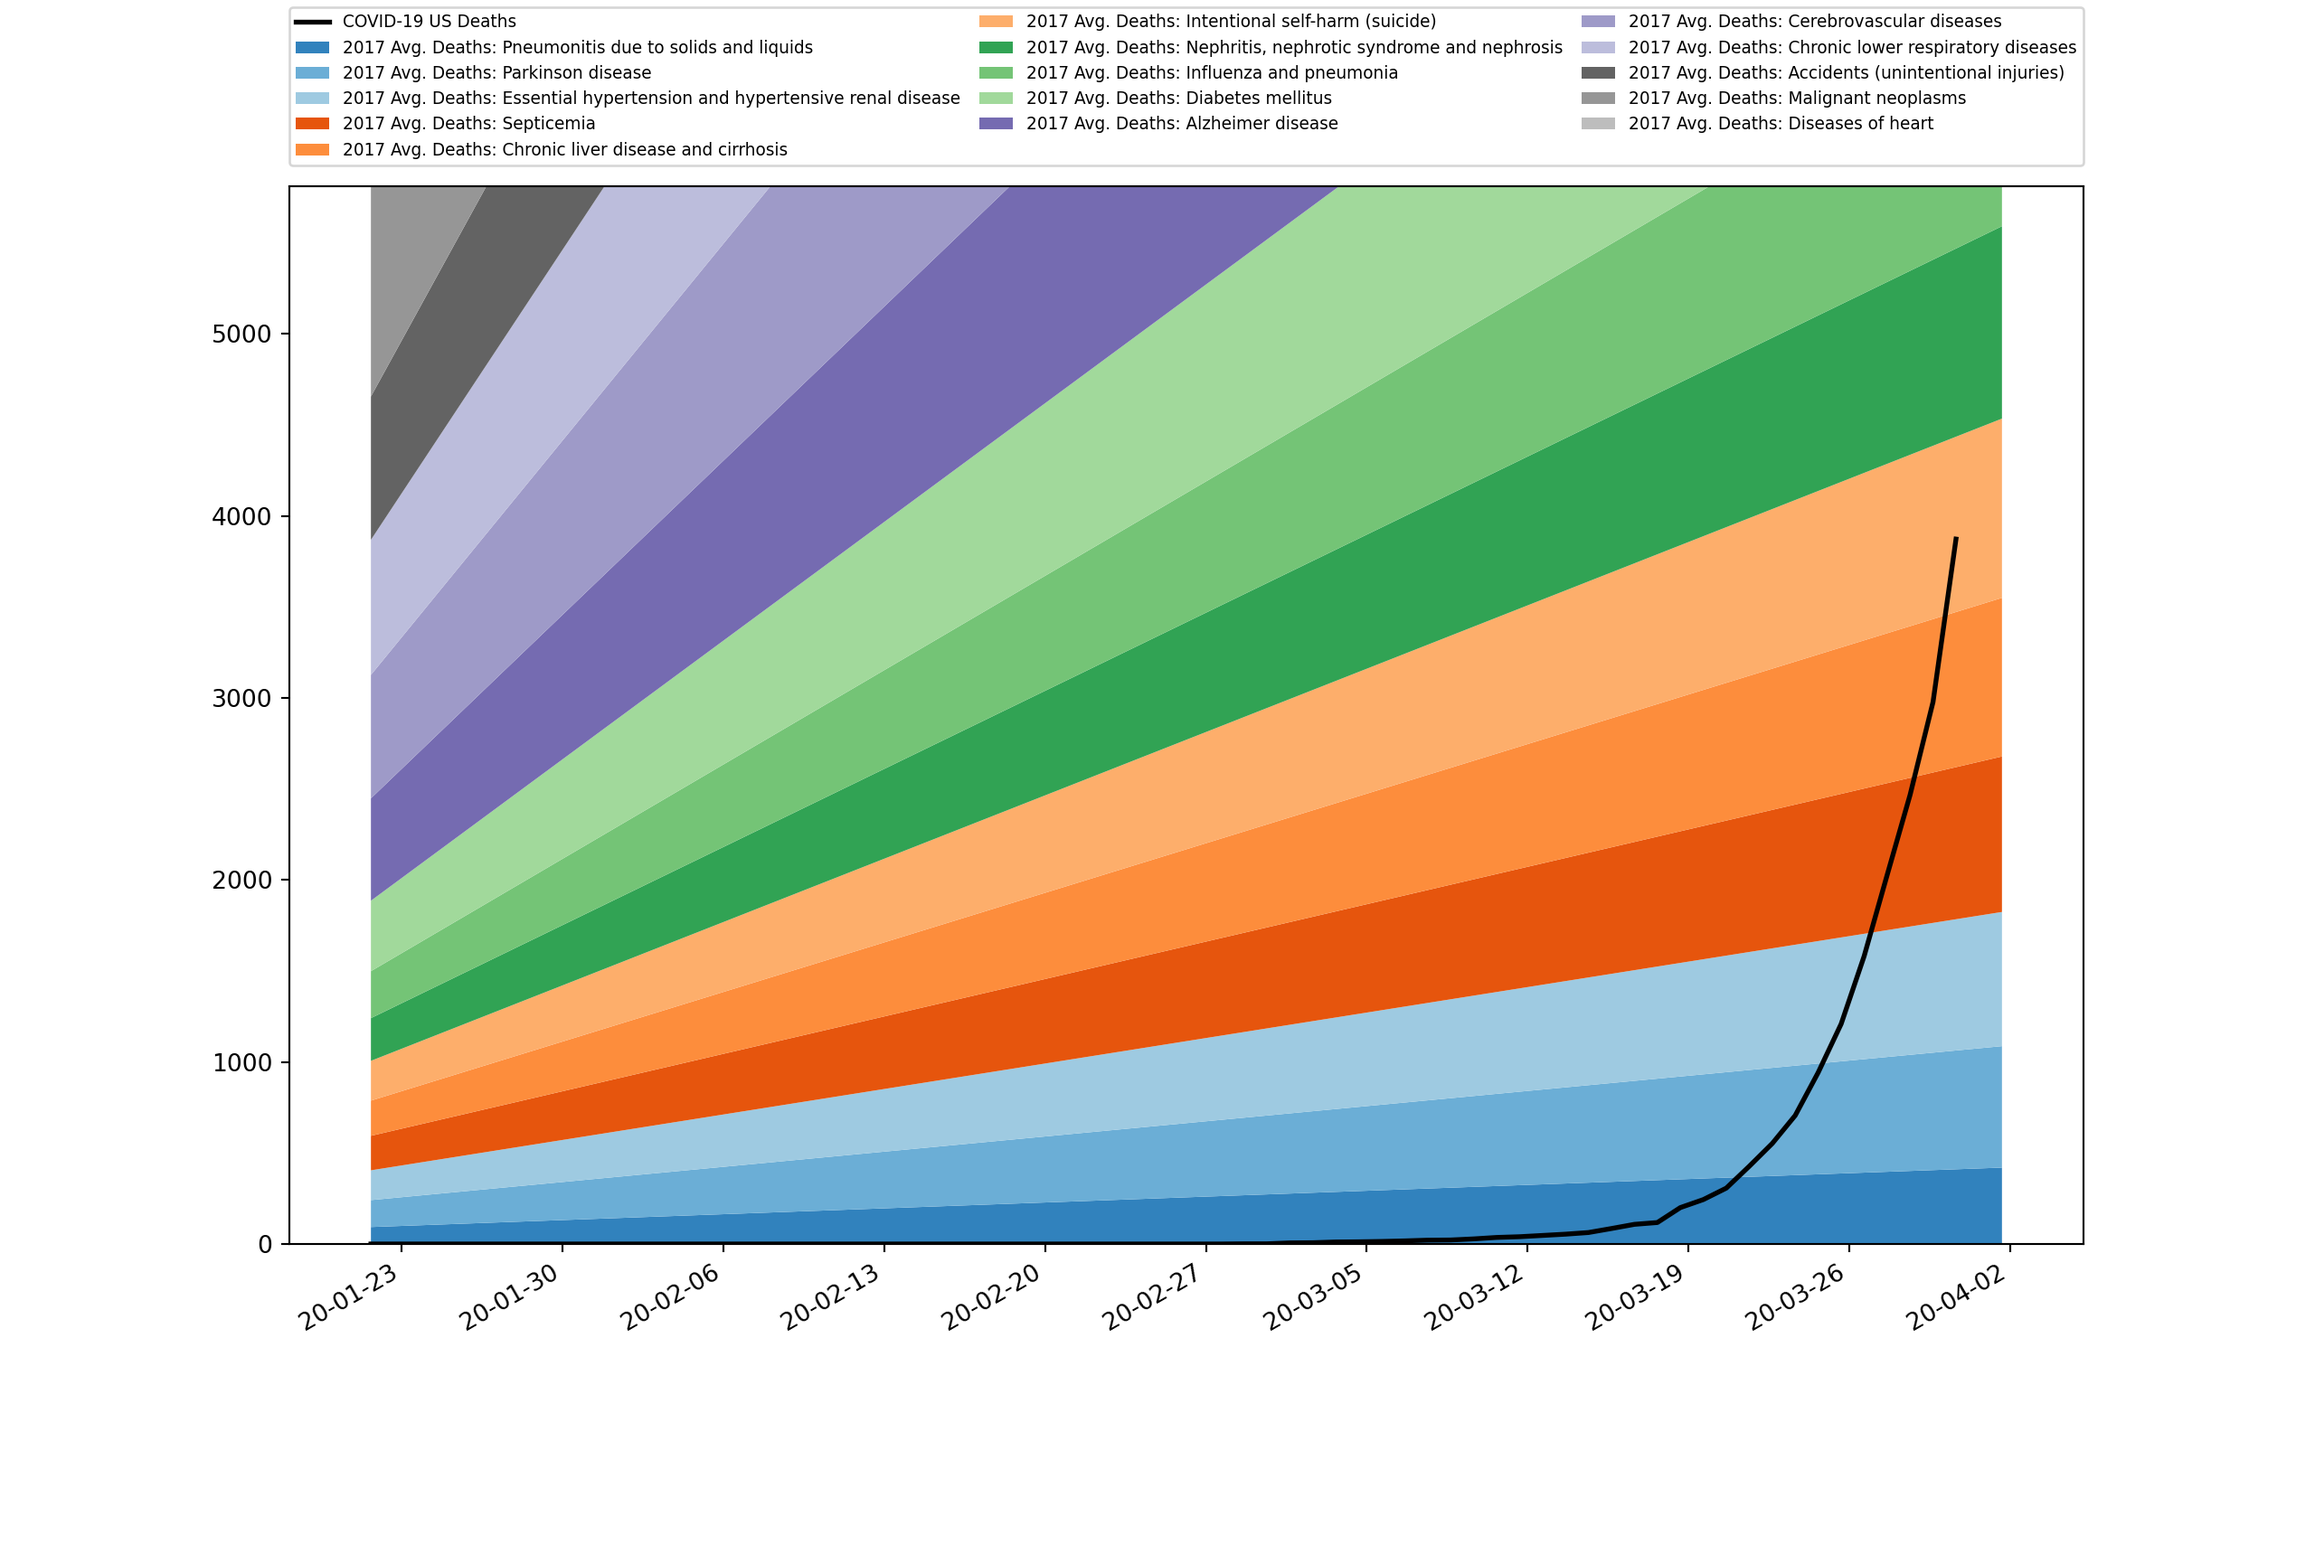
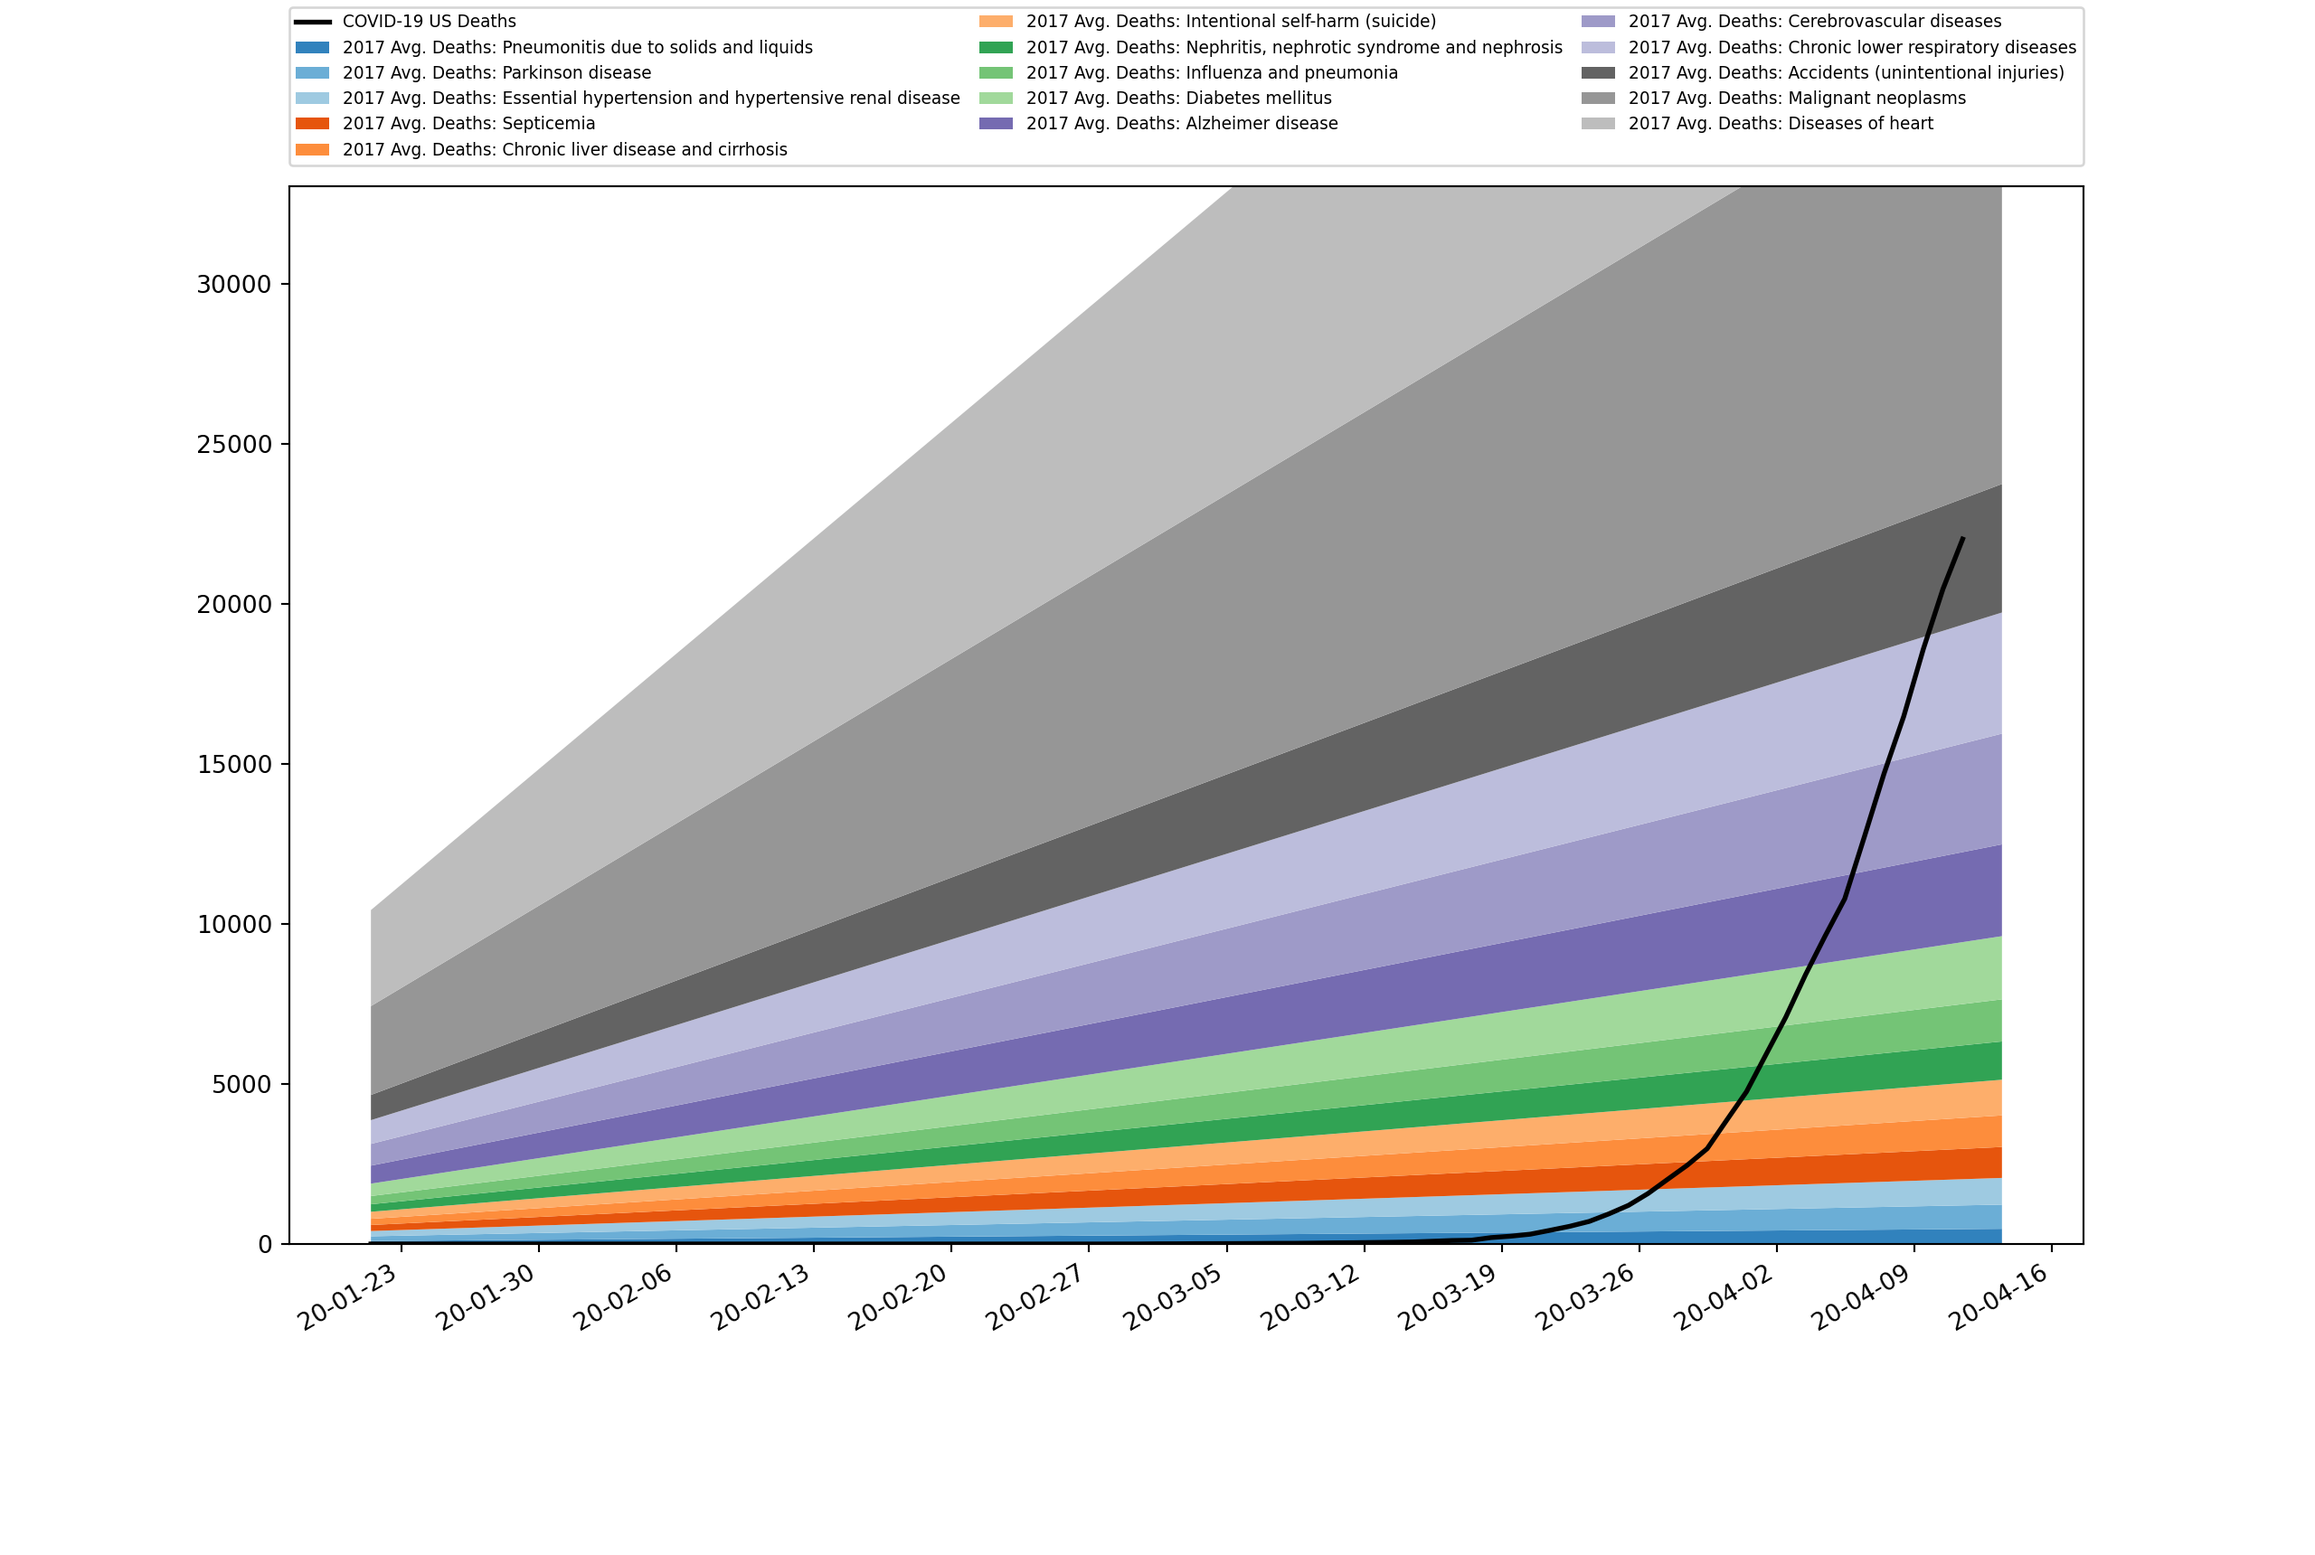
Updated numbers

diff --git a/csse_covid_19_data/csse_covid_19_daily_reports/doplot-cumulative.py b/csse_covid_19_data/csse_covid_19_daily_reports/doplot-cumulative.py
@@ -22,7 +22,7 @@ rule = rrulewrapper(WEEKLY, interval=1)
 loc = RRuleLocator(rule)
 formatter = DateFormatter('%y-%m-%d')
 date1 = datetime.date(2020, 1, 22)
-date2 = datetime.date(2020, 4, 1)
+date2 = datetime.date(2020, 4, 13)
 delta = datetime.timedelta(days=1)
 
 dates = drange(date1, date2, delta)

diff --git a/csse_covid_19_data/csse_covid_19_daily_reports/doplot-non-cumulative.py b/csse_covid_19_data/csse_covid_19_daily_reports/doplot-non-cumulative.py
@@ -22,7 +22,7 @@ rule = rrulewrapper(WEEKLY, interval=1)
 loc = RRuleLocator(rule)
 formatter = DateFormatter('%y-%m-%d')
 date1 = datetime.date(2020, 1, 22)
-date2 = datetime.date(2020, 4, 2)
+date2 = datetime.date(2020, 4, 13)
 delta = datetime.timedelta(days=1)
 
 dates = drange(date1, date2, delta)
